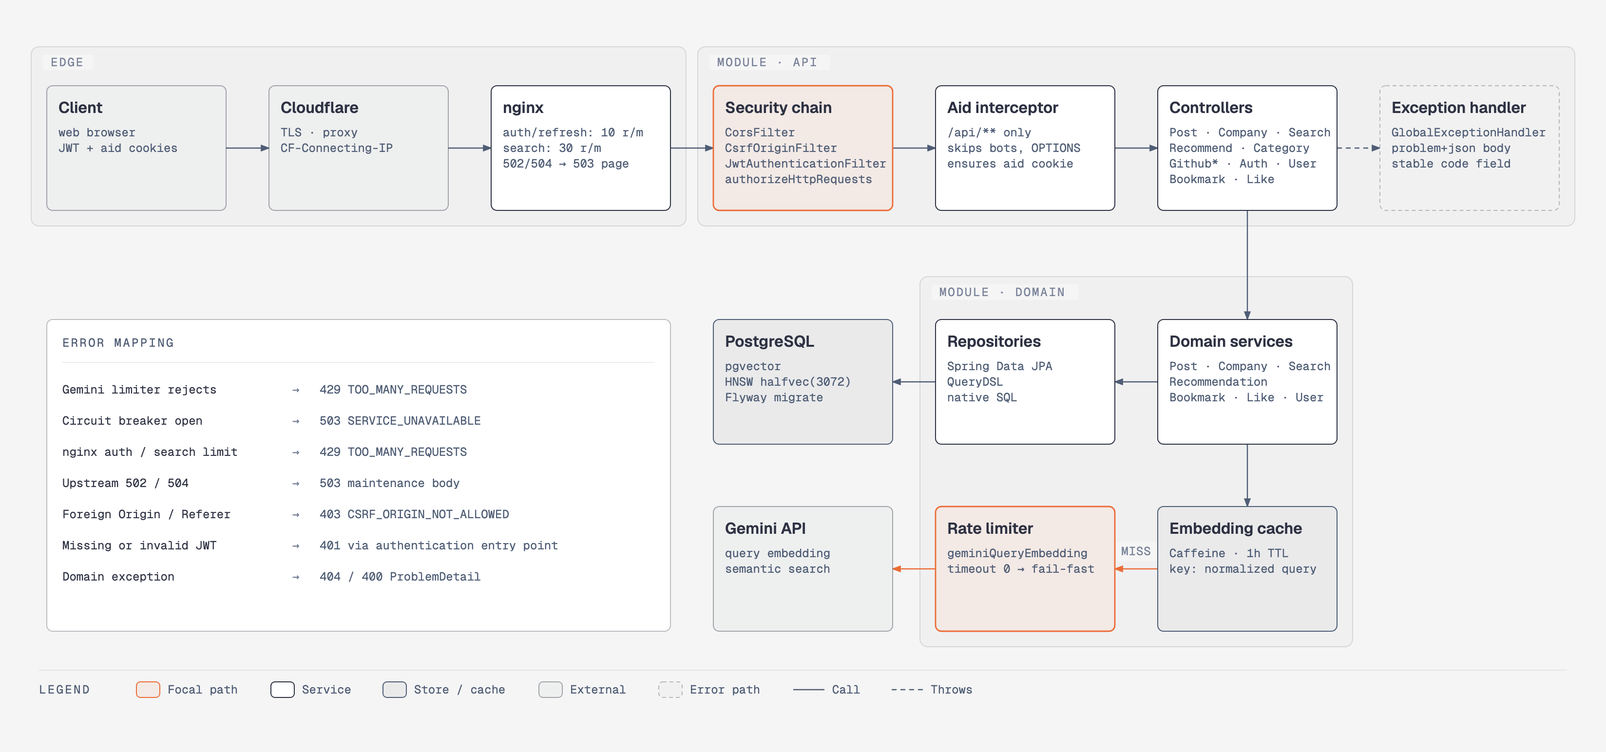
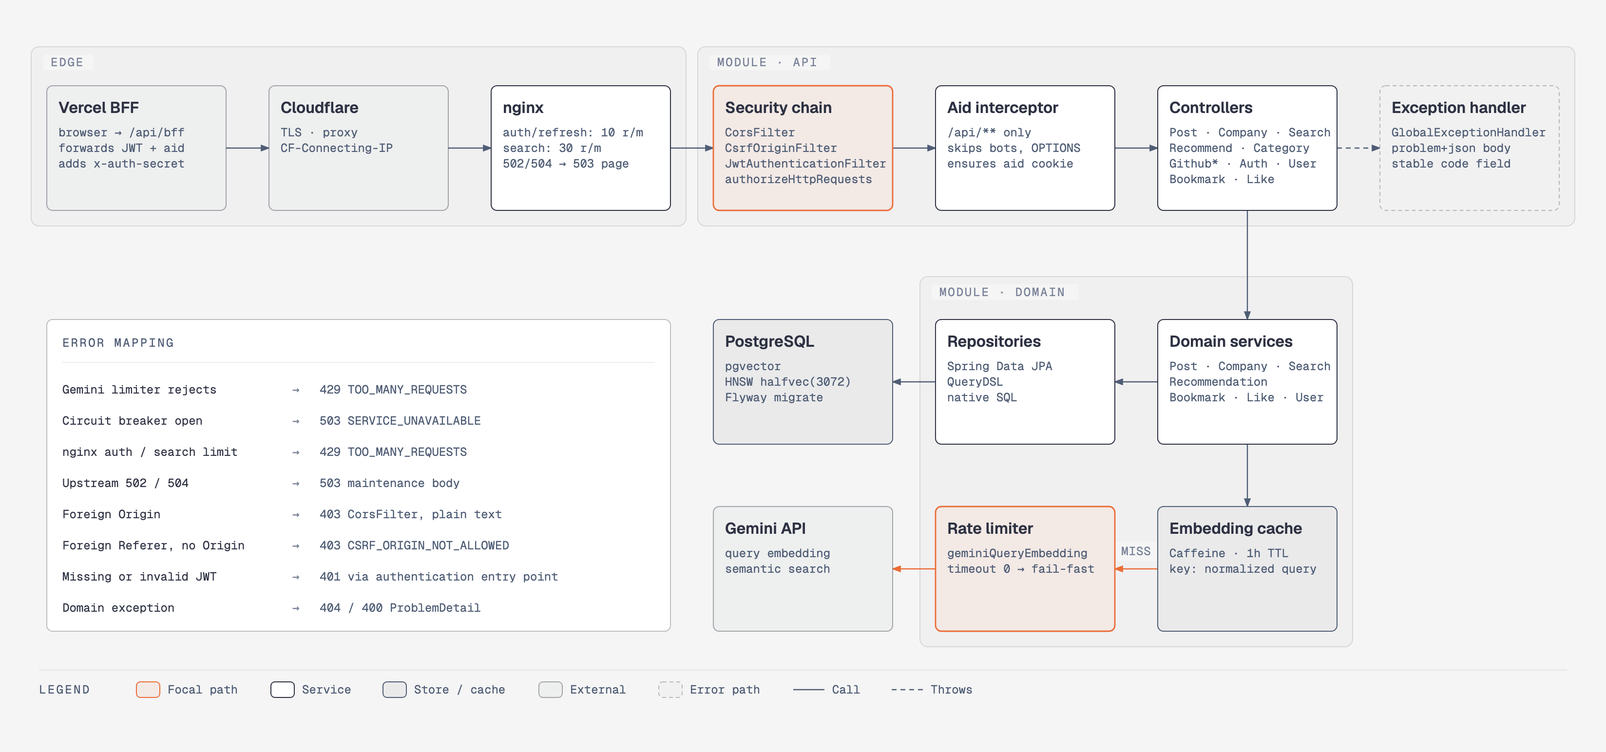
docs: correct api diagram csrf rows and vercel bff entry

diff --git a/img/diagrams/src/api-server.html b/img/diagrams/src/api-server.html
@@ -6,5 +6,5 @@
 .eyebrow{font-family:'Geist Mono', ui-monospace, monospace;font-size:.66rem;letter-spacing:.18em;text-transform:uppercase;color:#4f5d75;margin-bottom:.5rem}
 h1{font-family:'Instrument Serif', serif;font-weight:400;font-size:1.75rem;margin-bottom:1.5rem}svg{max-width:100%;height:auto;display:block}</style></head>
 <body><p class="eyebrow">Request flow</p><h1>API server</h1>
-<svg xmlns="http://www.w3.org/2000/svg" viewBox="0 0 1648 772" width="1648" height="772" role="img" aria-labelledby="api-server-title api-server-desc"><title id="api-server-title">TechInsights API server request flow</title><desc id="api-server-desc">Request path from the client through Cloudflare and nginx, the Spring Security chain, the Aid interceptor and controllers in the api module, into domain services, repositories and PostgreSQL with pgvector, plus the fail-fast Gemini query-embedding path and ProblemDetail error handling.</desc><defs><marker id="api-server-arrow" markerWidth="8" markerHeight="6" refX="7" refY="3" orient="auto"><polygon points="0 0, 8 3, 0 6" fill="#4f5d75"/></marker><marker id="api-server-arrow-accent" markerWidth="8" markerHeight="6" refX="7" refY="3" orient="auto"><polygon points="0 0, 8 3, 0 6" fill="#eb6c36"/></marker><marker id="api-server-arrow-link" markerWidth="8" markerHeight="6" refX="7" refY="3" orient="auto"><polygon points="0 0, 8 3, 0 6" fill="#2e5aa8"/></marker></defs><rect width="100%" height="100%" fill="#f5f5f5"/><rect x="32" y="48" width="672" height="184" rx="8" fill="rgba(45,49,66,0.025)" stroke="rgba(45,49,66,0.14)" stroke-width="1"/><rect x="44" y="56" width="52" height="16" rx="2" fill="#f5f5f5"/><text x="52" y="68" fill="#7a8399" font-size="12" font-family="'Geist Mono', ui-monospace, monospace" letter-spacing="0.12em">EDGE</text><rect x="716" y="48" width="900" height="184" rx="8" fill="rgba(45,49,66,0.025)" stroke="rgba(45,49,66,0.14)" stroke-width="1"/><rect x="728" y="56" width="124" height="16" rx="2" fill="#f5f5f5"/><text x="736" y="68" fill="#7a8399" font-size="12" font-family="'Geist Mono', ui-monospace, monospace" letter-spacing="0.12em">MODULE · API</text><rect x="944" y="284" width="444" height="380" rx="8" fill="rgba(45,49,66,0.025)" stroke="rgba(45,49,66,0.14)" stroke-width="1"/><rect x="956" y="292" width="151" height="16" rx="2" fill="#f5f5f5"/><text x="964" y="304" fill="#7a8399" font-size="12" font-family="'Geist Mono', ui-monospace, monospace" letter-spacing="0.12em">MODULE · DOMAIN</text><path d="M 232,152 L 276,152" fill="none" stroke="#4f5d75" stroke-width="1.2" marker-end="url(#api-server-arrow)"/><path d="M 460,152 L 504,152" fill="none" stroke="#4f5d75" stroke-width="1.2" marker-end="url(#api-server-arrow)"/><path d="M 688,152 L 732,152" fill="none" stroke="#4f5d75" stroke-width="1.2" marker-end="url(#api-server-arrow)"/><path d="M 916,152 L 960,152" fill="none" stroke="#4f5d75" stroke-width="1.2" marker-end="url(#api-server-arrow)"/><path d="M 1144,152 L 1188,152" fill="none" stroke="#4f5d75" stroke-width="1.2" marker-end="url(#api-server-arrow)"/><path d="M 1372,152 L 1416,152" fill="none" stroke="#4f5d75" stroke-width="1.2" stroke-dasharray="5,4" marker-end="url(#api-server-arrow)"/><path d="M 1280,216 L 1280,328" fill="none" stroke="#4f5d75" stroke-width="1.2" marker-end="url(#api-server-arrow)"/><path d="M 1188,392 L 1144,392" fill="none" stroke="#4f5d75" stroke-width="1.2" marker-end="url(#api-server-arrow)"/><path d="M 960,392 L 916,392" fill="none" stroke="#4f5d75" stroke-width="1.2" marker-end="url(#api-server-arrow)"/><path d="M 1280,456 L 1280,520" fill="none" stroke="#4f5d75" stroke-width="1.2" marker-end="url(#api-server-arrow)"/><path d="M 1188,584 L 1144,584" fill="none" stroke="#eb6c36" stroke-width="1.2" marker-end="url(#api-server-arrow-accent)"/><path d="M 960,584 L 916,584" fill="none" stroke="#eb6c36" stroke-width="1.2" marker-end="url(#api-server-arrow-accent)"/><rect x="1145" y="556" width="42" height="20" rx="2" fill="#f5f5f5"/><text x="1166" y="570" fill="#7a8399" font-size="12" font-family="'Geist Mono', ui-monospace, monospace" text-anchor="middle" letter-spacing="0.04em">MISS</text><rect x="48" y="88" width="184" height="128" rx="6" fill="#f5f5f5"/><rect x="48" y="88" width="184" height="128" rx="6" fill="rgba(45,49,66,0.03)" stroke="rgba(45,49,66,0.40)" stroke-width="1"/><text x="60" y="116" fill="#2d3142" font-size="16" font-weight="600" font-family="'Geist', 'Noto Sans KR', sans-serif">Client</text><text x="60" y="140" fill="#4f5d75" font-size="12" font-family="'Geist Mono', ui-monospace, monospace">web browser</text><text x="60" y="156" fill="#4f5d75" font-size="12" font-family="'Geist Mono', ui-monospace, monospace">JWT + aid cookies</text><rect x="276" y="88" width="184" height="128" rx="6" fill="#f5f5f5"/><rect x="276" y="88" width="184" height="128" rx="6" fill="rgba(45,49,66,0.03)" stroke="rgba(45,49,66,0.40)" stroke-width="1"/><text x="288" y="116" fill="#2d3142" font-size="16" font-weight="600" font-family="'Geist', 'Noto Sans KR', sans-serif">Cloudflare</text><text x="288" y="140" fill="#4f5d75" font-size="12" font-family="'Geist Mono', ui-monospace, monospace">TLS · proxy</text><text x="288" y="156" fill="#4f5d75" font-size="12" font-family="'Geist Mono', ui-monospace, monospace">CF-Connecting-IP</text><rect x="504" y="88" width="184" height="128" rx="6" fill="#f5f5f5"/><rect x="504" y="88" width="184" height="128" rx="6" fill="#ffffff" stroke="#2d3142" stroke-width="1"/><text x="516" y="116" fill="#2d3142" font-size="16" font-weight="600" font-family="'Geist', 'Noto Sans KR', sans-serif">nginx</text><text x="516" y="140" fill="#4f5d75" font-size="12" font-family="'Geist Mono', ui-monospace, monospace">auth/refresh: 10 r/m</text><text x="516" y="156" fill="#4f5d75" font-size="12" font-family="'Geist Mono', ui-monospace, monospace">search: 30 r/m</text><text x="516" y="172" fill="#4f5d75" font-size="12" font-family="'Geist Mono', ui-monospace, monospace">502/504 → 503 page</text><rect x="732" y="88" width="184" height="128" rx="6" fill="#f5f5f5"/><rect x="732" y="88" width="184" height="128" rx="6" fill="rgba(235,108,54,0.08)" stroke="#eb6c36" stroke-width="1.4"/><text x="744" y="116" fill="#2d3142" font-size="16" font-weight="600" font-family="'Geist', 'Noto Sans KR', sans-serif">Security chain</text><text x="744" y="140" fill="#4f5d75" font-size="12" font-family="'Geist Mono', ui-monospace, monospace">CorsFilter</text><text x="744" y="156" fill="#4f5d75" font-size="12" font-family="'Geist Mono', ui-monospace, monospace">CsrfOriginFilter</text><text x="744" y="172" fill="#4f5d75" font-size="12" font-family="'Geist Mono', ui-monospace, monospace">JwtAuthenticationFilter</text><text x="744" y="188" fill="#4f5d75" font-size="12" font-family="'Geist Mono', ui-monospace, monospace">authorizeHttpRequests</text><rect x="960" y="88" width="184" height="128" rx="6" fill="#f5f5f5"/><rect x="960" y="88" width="184" height="128" rx="6" fill="#ffffff" stroke="#2d3142" stroke-width="1"/><text x="972" y="116" fill="#2d3142" font-size="16" font-weight="600" font-family="'Geist', 'Noto Sans KR', sans-serif">Aid interceptor</text><text x="972" y="140" fill="#4f5d75" font-size="12" font-family="'Geist Mono', ui-monospace, monospace">/api/** only</text><text x="972" y="156" fill="#4f5d75" font-size="12" font-family="'Geist Mono', ui-monospace, monospace">skips bots, OPTIONS</text><text x="972" y="172" fill="#4f5d75" font-size="12" font-family="'Geist Mono', ui-monospace, monospace">ensures aid cookie</text><rect x="1188" y="88" width="184" height="128" rx="6" fill="#f5f5f5"/><rect x="1188" y="88" width="184" height="128" rx="6" fill="#ffffff" stroke="#2d3142" stroke-width="1"/><text x="1200" y="116" fill="#2d3142" font-size="16" font-weight="600" font-family="'Geist', 'Noto Sans KR', sans-serif">Controllers</text><text x="1200" y="140" fill="#4f5d75" font-size="12" font-family="'Geist Mono', ui-monospace, monospace">Post · Company · Search</text><text x="1200" y="156" fill="#4f5d75" font-size="12" font-family="'Geist Mono', ui-monospace, monospace">Recommend · Category</text><text x="1200" y="172" fill="#4f5d75" font-size="12" font-family="'Geist Mono', ui-monospace, monospace">Github* · Auth · User</text><text x="1200" y="188" fill="#4f5d75" font-size="12" font-family="'Geist Mono', ui-monospace, monospace">Bookmark · Like</text><rect x="1416" y="88" width="184" height="128" rx="6" fill="#f5f5f5"/><rect x="1416" y="88" width="184" height="128" rx="6" fill="rgba(45,49,66,0.02)" stroke="rgba(45,49,66,0.30)" stroke-width="1" stroke-dasharray="4,3"/><text x="1428" y="116" fill="#2d3142" font-size="16" font-weight="600" font-family="'Geist', 'Noto Sans KR', sans-serif">Exception handler</text><text x="1428" y="140" fill="#4f5d75" font-size="12" font-family="'Geist Mono', ui-monospace, monospace">GlobalExceptionHandler</text><text x="1428" y="156" fill="#4f5d75" font-size="12" font-family="'Geist Mono', ui-monospace, monospace">problem+json body</text><text x="1428" y="172" fill="#4f5d75" font-size="12" font-family="'Geist Mono', ui-monospace, monospace">stable code field</text><rect x="1188" y="328" width="184" height="128" rx="6" fill="#f5f5f5"/><rect x="1188" y="328" width="184" height="128" rx="6" fill="#ffffff" stroke="#2d3142" stroke-width="1"/><text x="1200" y="356" fill="#2d3142" font-size="16" font-weight="600" font-family="'Geist', 'Noto Sans KR', sans-serif">Domain services</text><text x="1200" y="380" fill="#4f5d75" font-size="12" font-family="'Geist Mono', ui-monospace, monospace">Post · Company · Search</text><text x="1200" y="396" fill="#4f5d75" font-size="12" font-family="'Geist Mono', ui-monospace, monospace">Recommendation</text><text x="1200" y="412" fill="#4f5d75" font-size="12" font-family="'Geist Mono', ui-monospace, monospace">Bookmark · Like · User</text><rect x="960" y="328" width="184" height="128" rx="6" fill="#f5f5f5"/><rect x="960" y="328" width="184" height="128" rx="6" fill="#ffffff" stroke="#2d3142" stroke-width="1"/><text x="972" y="356" fill="#2d3142" font-size="16" font-weight="600" font-family="'Geist', 'Noto Sans KR', sans-serif">Repositories</text><text x="972" y="380" fill="#4f5d75" font-size="12" font-family="'Geist Mono', ui-monospace, monospace">Spring Data JPA</text><text x="972" y="396" fill="#4f5d75" font-size="12" font-family="'Geist Mono', ui-monospace, monospace">QueryDSL</text><text x="972" y="412" fill="#4f5d75" font-size="12" font-family="'Geist Mono', ui-monospace, monospace">native SQL</text><rect x="732" y="328" width="184" height="128" rx="6" fill="#f5f5f5"/><rect x="732" y="328" width="184" height="128" rx="6" fill="rgba(45,49,66,0.05)" stroke="#4f5d75" stroke-width="1"/><text x="744" y="356" fill="#2d3142" font-size="16" font-weight="600" font-family="'Geist', 'Noto Sans KR', sans-serif">PostgreSQL</text><text x="744" y="380" fill="#4f5d75" font-size="12" font-family="'Geist Mono', ui-monospace, monospace">pgvector</text><text x="744" y="396" fill="#4f5d75" font-size="12" font-family="'Geist Mono', ui-monospace, monospace">HNSW halfvec(3072)</text><text x="744" y="412" fill="#4f5d75" font-size="12" font-family="'Geist Mono', ui-monospace, monospace">Flyway migrate</text><rect x="1188" y="520" width="184" height="128" rx="6" fill="#f5f5f5"/><rect x="1188" y="520" width="184" height="128" rx="6" fill="rgba(45,49,66,0.05)" stroke="#4f5d75" stroke-width="1"/><text x="1200" y="548" fill="#2d3142" font-size="16" font-weight="600" font-family="'Geist', 'Noto Sans KR', sans-serif">Embedding cache</text><text x="1200" y="572" fill="#4f5d75" font-size="12" font-family="'Geist Mono', ui-monospace, monospace">Caffeine · 1h TTL</text><text x="1200" y="588" fill="#4f5d75" font-size="12" font-family="'Geist Mono', ui-monospace, monospace">key: normalized query</text><rect x="960" y="520" width="184" height="128" rx="6" fill="#f5f5f5"/><rect x="960" y="520" width="184" height="128" rx="6" fill="rgba(235,108,54,0.08)" stroke="#eb6c36" stroke-width="1.4"/><text x="972" y="548" fill="#2d3142" font-size="16" font-weight="600" font-family="'Geist', 'Noto Sans KR', sans-serif">Rate limiter</text><text x="972" y="572" fill="#4f5d75" font-size="12" font-family="'Geist Mono', ui-monospace, monospace">geminiQueryEmbedding</text><text x="972" y="588" fill="#4f5d75" font-size="12" font-family="'Geist Mono', ui-monospace, monospace">timeout 0 → fail-fast</text><rect x="732" y="520" width="184" height="128" rx="6" fill="#f5f5f5"/><rect x="732" y="520" width="184" height="128" rx="6" fill="rgba(45,49,66,0.03)" stroke="rgba(45,49,66,0.40)" stroke-width="1"/><text x="744" y="548" fill="#2d3142" font-size="16" font-weight="600" font-family="'Geist', 'Noto Sans KR', sans-serif">Gemini API</text><text x="744" y="572" fill="#4f5d75" font-size="12" font-family="'Geist Mono', ui-monospace, monospace">query embedding</text><text x="744" y="588" fill="#4f5d75" font-size="12" font-family="'Geist Mono', ui-monospace, monospace">semantic search</text><rect x="48" y="328" width="640" height="320" rx="6" fill="#ffffff" stroke="rgba(45,49,66,0.30)" stroke-width="1"/><text x="64" y="356" fill="#4f5d75" font-size="12" font-weight="400" font-family="'Geist Mono', ui-monospace, monospace" text-anchor="start" letter-spacing="0.14em">ERROR MAPPING</text><line x1="64" y1="372" x2="672" y2="372" stroke="rgba(45,49,66,0.12)" stroke-width="0.8"/><text x="64" y="404" fill="#2d3142" font-size="12" font-weight="400" font-family="'Geist Mono', ui-monospace, monospace" text-anchor="start">Gemini limiter rejects</text><text x="300" y="404" fill="#7a8399" font-size="12" font-weight="400" font-family="'Geist Mono', ui-monospace, monospace" text-anchor="start">→</text><text x="328" y="404" fill="#4f5d75" font-size="12" font-weight="400" font-family="'Geist Mono', ui-monospace, monospace" text-anchor="start">429 TOO_MANY_REQUESTS</text><text x="64" y="436" fill="#2d3142" font-size="12" font-weight="400" font-family="'Geist Mono', ui-monospace, monospace" text-anchor="start">Circuit breaker open</text><text x="300" y="436" fill="#7a8399" font-size="12" font-weight="400" font-family="'Geist Mono', ui-monospace, monospace" text-anchor="start">→</text><text x="328" y="436" fill="#4f5d75" font-size="12" font-weight="400" font-family="'Geist Mono', ui-monospace, monospace" text-anchor="start">503 SERVICE_UNAVAILABLE</text><text x="64" y="468" fill="#2d3142" font-size="12" font-weight="400" font-family="'Geist Mono', ui-monospace, monospace" text-anchor="start">nginx auth / search limit</text><text x="300" y="468" fill="#7a8399" font-size="12" font-weight="400" font-family="'Geist Mono', ui-monospace, monospace" text-anchor="start">→</text><text x="328" y="468" fill="#4f5d75" font-size="12" font-weight="400" font-family="'Geist Mono', ui-monospace, monospace" text-anchor="start">429 TOO_MANY_REQUESTS</text><text x="64" y="500" fill="#2d3142" font-size="12" font-weight="400" font-family="'Geist Mono', ui-monospace, monospace" text-anchor="start">Upstream 502 / 504</text><text x="300" y="500" fill="#7a8399" font-size="12" font-weight="400" font-family="'Geist Mono', ui-monospace, monospace" text-anchor="start">→</text><text x="328" y="500" fill="#4f5d75" font-size="12" font-weight="400" font-family="'Geist Mono', ui-monospace, monospace" text-anchor="start">503 maintenance body</text><text x="64" y="532" fill="#2d3142" font-size="12" font-weight="400" font-family="'Geist Mono', ui-monospace, monospace" text-anchor="start">Foreign Origin / Referer</text><text x="300" y="532" fill="#7a8399" font-size="12" font-weight="400" font-family="'Geist Mono', ui-monospace, monospace" text-anchor="start">→</text><text x="328" y="532" fill="#4f5d75" font-size="12" font-weight="400" font-family="'Geist Mono', ui-monospace, monospace" text-anchor="start">403 CSRF_ORIGIN_NOT_ALLOWED</text><text x="64" y="564" fill="#2d3142" font-size="12" font-weight="400" font-family="'Geist Mono', ui-monospace, monospace" text-anchor="start">Missing or invalid JWT</text><text x="300" y="564" fill="#7a8399" font-size="12" font-weight="400" font-family="'Geist Mono', ui-monospace, monospace" text-anchor="start">→</text><text x="328" y="564" fill="#4f5d75" font-size="12" font-weight="400" font-family="'Geist Mono', ui-monospace, monospace" text-anchor="start">401 via authentication entry point</text><text x="64" y="596" fill="#2d3142" font-size="12" font-weight="400" font-family="'Geist Mono', ui-monospace, monospace" text-anchor="start">Domain exception</text><text x="300" y="596" fill="#7a8399" font-size="12" font-weight="400" font-family="'Geist Mono', ui-monospace, monospace" text-anchor="start">→</text><text x="328" y="596" fill="#4f5d75" font-size="12" font-weight="400" font-family="'Geist Mono', ui-monospace, monospace" text-anchor="start">404 / 400 ProblemDetail</text><line x1="40" y1="688" x2="1608" y2="688" stroke="rgba(45,49,66,0.10)" stroke-width="0.8"/><text x="40" y="712" fill="#4f5d75" font-size="12" font-weight="400" font-family="'Geist Mono', ui-monospace, monospace" text-anchor="start" letter-spacing="0.14em">LEGEND</text><rect x="140" y="700" width="24" height="16" rx="4" fill="rgba(235,108,54,0.08)" stroke="#eb6c36" stroke-width="1"/><text x="172" y="712" fill="#4f5d75" font-size="12" font-weight="400" font-family="'Geist Mono', ui-monospace, monospace" text-anchor="start">Focal path</text><rect x="278" y="700" width="24" height="16" rx="4" fill="#ffffff" stroke="#2d3142" stroke-width="1"/><text x="310" y="712" fill="#4f5d75" font-size="12" font-weight="400" font-family="'Geist Mono', ui-monospace, monospace" text-anchor="start">Service</text><rect x="393" y="700" width="24" height="16" rx="4" fill="rgba(45,49,66,0.05)" stroke="#4f5d75" stroke-width="1"/><text x="425" y="712" fill="#4f5d75" font-size="12" font-weight="400" font-family="'Geist Mono', ui-monospace, monospace" text-anchor="start">Store / cache</text><rect x="553" y="700" width="24" height="16" rx="4" fill="rgba(45,49,66,0.03)" stroke="rgba(45,49,66,0.40)" stroke-width="1"/><text x="585" y="712" fill="#4f5d75" font-size="12" font-weight="400" font-family="'Geist Mono', ui-monospace, monospace" text-anchor="start">External</text><rect x="676" y="700" width="24" height="16" rx="4" fill="rgba(45,49,66,0.02)" stroke="rgba(45,49,66,0.30)" stroke-width="1" stroke-dasharray="4,3"/><text x="708" y="712" fill="#4f5d75" font-size="12" font-weight="400" font-family="'Geist Mono', ui-monospace, monospace" text-anchor="start">Error path</text><line x1="814" y1="708" x2="846" y2="708" stroke="#4f5d75" stroke-width="1.2"/><text x="854" y="712" fill="#4f5d75" font-size="12" font-weight="400" font-family="'Geist Mono', ui-monospace, monospace" text-anchor="start">Call</text><line x1="915" y1="708" x2="947" y2="708" stroke="#4f5d75" stroke-width="1.2" stroke-dasharray="5,4"/><text x="955" y="712" fill="#4f5d75" font-size="12" font-weight="400" font-family="'Geist Mono', ui-monospace, monospace" text-anchor="start">Throws</text></svg>
+<svg xmlns="http://www.w3.org/2000/svg" viewBox="0 0 1648 772" width="1648" height="772" role="img" aria-labelledby="api-server-title api-server-desc"><title id="api-server-title">TechInsights API server request flow</title><desc id="api-server-desc">Request path from the client through Cloudflare and nginx, the Spring Security chain, the Aid interceptor and controllers in the api module, into domain services, repositories and PostgreSQL with pgvector, plus the fail-fast Gemini query-embedding path and ProblemDetail error handling.</desc><defs><marker id="api-server-arrow" markerWidth="8" markerHeight="6" refX="7" refY="3" orient="auto"><polygon points="0 0, 8 3, 0 6" fill="#4f5d75"/></marker><marker id="api-server-arrow-accent" markerWidth="8" markerHeight="6" refX="7" refY="3" orient="auto"><polygon points="0 0, 8 3, 0 6" fill="#eb6c36"/></marker><marker id="api-server-arrow-link" markerWidth="8" markerHeight="6" refX="7" refY="3" orient="auto"><polygon points="0 0, 8 3, 0 6" fill="#2e5aa8"/></marker></defs><rect width="100%" height="100%" fill="#f5f5f5"/><rect x="32" y="48" width="672" height="184" rx="8" fill="rgba(45,49,66,0.025)" stroke="rgba(45,49,66,0.14)" stroke-width="1"/><rect x="44" y="56" width="52" height="16" rx="2" fill="#f5f5f5"/><text x="52" y="68" fill="#7a8399" font-size="12" font-family="'Geist Mono', ui-monospace, monospace" letter-spacing="0.12em">EDGE</text><rect x="716" y="48" width="900" height="184" rx="8" fill="rgba(45,49,66,0.025)" stroke="rgba(45,49,66,0.14)" stroke-width="1"/><rect x="728" y="56" width="124" height="16" rx="2" fill="#f5f5f5"/><text x="736" y="68" fill="#7a8399" font-size="12" font-family="'Geist Mono', ui-monospace, monospace" letter-spacing="0.12em">MODULE · API</text><rect x="944" y="284" width="444" height="380" rx="8" fill="rgba(45,49,66,0.025)" stroke="rgba(45,49,66,0.14)" stroke-width="1"/><rect x="956" y="292" width="151" height="16" rx="2" fill="#f5f5f5"/><text x="964" y="304" fill="#7a8399" font-size="12" font-family="'Geist Mono', ui-monospace, monospace" letter-spacing="0.12em">MODULE · DOMAIN</text><path d="M 232,152 L 276,152" fill="none" stroke="#4f5d75" stroke-width="1.2" marker-end="url(#api-server-arrow)"/><path d="M 460,152 L 504,152" fill="none" stroke="#4f5d75" stroke-width="1.2" marker-end="url(#api-server-arrow)"/><path d="M 688,152 L 732,152" fill="none" stroke="#4f5d75" stroke-width="1.2" marker-end="url(#api-server-arrow)"/><path d="M 916,152 L 960,152" fill="none" stroke="#4f5d75" stroke-width="1.2" marker-end="url(#api-server-arrow)"/><path d="M 1144,152 L 1188,152" fill="none" stroke="#4f5d75" stroke-width="1.2" marker-end="url(#api-server-arrow)"/><path d="M 1372,152 L 1416,152" fill="none" stroke="#4f5d75" stroke-width="1.2" stroke-dasharray="5,4" marker-end="url(#api-server-arrow)"/><path d="M 1280,216 L 1280,328" fill="none" stroke="#4f5d75" stroke-width="1.2" marker-end="url(#api-server-arrow)"/><path d="M 1188,392 L 1144,392" fill="none" stroke="#4f5d75" stroke-width="1.2" marker-end="url(#api-server-arrow)"/><path d="M 960,392 L 916,392" fill="none" stroke="#4f5d75" stroke-width="1.2" marker-end="url(#api-server-arrow)"/><path d="M 1280,456 L 1280,520" fill="none" stroke="#4f5d75" stroke-width="1.2" marker-end="url(#api-server-arrow)"/><path d="M 1188,584 L 1144,584" fill="none" stroke="#eb6c36" stroke-width="1.2" marker-end="url(#api-server-arrow-accent)"/><path d="M 960,584 L 916,584" fill="none" stroke="#eb6c36" stroke-width="1.2" marker-end="url(#api-server-arrow-accent)"/><rect x="1145" y="556" width="42" height="20" rx="2" fill="#f5f5f5"/><text x="1166" y="570" fill="#7a8399" font-size="12" font-family="'Geist Mono', ui-monospace, monospace" text-anchor="middle" letter-spacing="0.04em">MISS</text><rect x="48" y="88" width="184" height="128" rx="6" fill="#f5f5f5"/><rect x="48" y="88" width="184" height="128" rx="6" fill="rgba(45,49,66,0.03)" stroke="rgba(45,49,66,0.40)" stroke-width="1"/><text x="60" y="116" fill="#2d3142" font-size="16" font-weight="600" font-family="'Geist', 'Noto Sans KR', sans-serif">Vercel BFF</text><text x="60" y="140" fill="#4f5d75" font-size="12" font-family="'Geist Mono', ui-monospace, monospace">browser → /api/bff</text><text x="60" y="156" fill="#4f5d75" font-size="12" font-family="'Geist Mono', ui-monospace, monospace">forwards JWT + aid</text><text x="60" y="172" fill="#4f5d75" font-size="12" font-family="'Geist Mono', ui-monospace, monospace">adds x-auth-secret</text><rect x="276" y="88" width="184" height="128" rx="6" fill="#f5f5f5"/><rect x="276" y="88" width="184" height="128" rx="6" fill="rgba(45,49,66,0.03)" stroke="rgba(45,49,66,0.40)" stroke-width="1"/><text x="288" y="116" fill="#2d3142" font-size="16" font-weight="600" font-family="'Geist', 'Noto Sans KR', sans-serif">Cloudflare</text><text x="288" y="140" fill="#4f5d75" font-size="12" font-family="'Geist Mono', ui-monospace, monospace">TLS · proxy</text><text x="288" y="156" fill="#4f5d75" font-size="12" font-family="'Geist Mono', ui-monospace, monospace">CF-Connecting-IP</text><rect x="504" y="88" width="184" height="128" rx="6" fill="#f5f5f5"/><rect x="504" y="88" width="184" height="128" rx="6" fill="#ffffff" stroke="#2d3142" stroke-width="1"/><text x="516" y="116" fill="#2d3142" font-size="16" font-weight="600" font-family="'Geist', 'Noto Sans KR', sans-serif">nginx</text><text x="516" y="140" fill="#4f5d75" font-size="12" font-family="'Geist Mono', ui-monospace, monospace">auth/refresh: 10 r/m</text><text x="516" y="156" fill="#4f5d75" font-size="12" font-family="'Geist Mono', ui-monospace, monospace">search: 30 r/m</text><text x="516" y="172" fill="#4f5d75" font-size="12" font-family="'Geist Mono', ui-monospace, monospace">502/504 → 503 page</text><rect x="732" y="88" width="184" height="128" rx="6" fill="#f5f5f5"/><rect x="732" y="88" width="184" height="128" rx="6" fill="rgba(235,108,54,0.08)" stroke="#eb6c36" stroke-width="1.4"/><text x="744" y="116" fill="#2d3142" font-size="16" font-weight="600" font-family="'Geist', 'Noto Sans KR', sans-serif">Security chain</text><text x="744" y="140" fill="#4f5d75" font-size="12" font-family="'Geist Mono', ui-monospace, monospace">CorsFilter</text><text x="744" y="156" fill="#4f5d75" font-size="12" font-family="'Geist Mono', ui-monospace, monospace">CsrfOriginFilter</text><text x="744" y="172" fill="#4f5d75" font-size="12" font-family="'Geist Mono', ui-monospace, monospace">JwtAuthenticationFilter</text><text x="744" y="188" fill="#4f5d75" font-size="12" font-family="'Geist Mono', ui-monospace, monospace">authorizeHttpRequests</text><rect x="960" y="88" width="184" height="128" rx="6" fill="#f5f5f5"/><rect x="960" y="88" width="184" height="128" rx="6" fill="#ffffff" stroke="#2d3142" stroke-width="1"/><text x="972" y="116" fill="#2d3142" font-size="16" font-weight="600" font-family="'Geist', 'Noto Sans KR', sans-serif">Aid interceptor</text><text x="972" y="140" fill="#4f5d75" font-size="12" font-family="'Geist Mono', ui-monospace, monospace">/api/** only</text><text x="972" y="156" fill="#4f5d75" font-size="12" font-family="'Geist Mono', ui-monospace, monospace">skips bots, OPTIONS</text><text x="972" y="172" fill="#4f5d75" font-size="12" font-family="'Geist Mono', ui-monospace, monospace">ensures aid cookie</text><rect x="1188" y="88" width="184" height="128" rx="6" fill="#f5f5f5"/><rect x="1188" y="88" width="184" height="128" rx="6" fill="#ffffff" stroke="#2d3142" stroke-width="1"/><text x="1200" y="116" fill="#2d3142" font-size="16" font-weight="600" font-family="'Geist', 'Noto Sans KR', sans-serif">Controllers</text><text x="1200" y="140" fill="#4f5d75" font-size="12" font-family="'Geist Mono', ui-monospace, monospace">Post · Company · Search</text><text x="1200" y="156" fill="#4f5d75" font-size="12" font-family="'Geist Mono', ui-monospace, monospace">Recommend · Category</text><text x="1200" y="172" fill="#4f5d75" font-size="12" font-family="'Geist Mono', ui-monospace, monospace">Github* · Auth · User</text><text x="1200" y="188" fill="#4f5d75" font-size="12" font-family="'Geist Mono', ui-monospace, monospace">Bookmark · Like</text><rect x="1416" y="88" width="184" height="128" rx="6" fill="#f5f5f5"/><rect x="1416" y="88" width="184" height="128" rx="6" fill="rgba(45,49,66,0.02)" stroke="rgba(45,49,66,0.30)" stroke-width="1" stroke-dasharray="4,3"/><text x="1428" y="116" fill="#2d3142" font-size="16" font-weight="600" font-family="'Geist', 'Noto Sans KR', sans-serif">Exception handler</text><text x="1428" y="140" fill="#4f5d75" font-size="12" font-family="'Geist Mono', ui-monospace, monospace">GlobalExceptionHandler</text><text x="1428" y="156" fill="#4f5d75" font-size="12" font-family="'Geist Mono', ui-monospace, monospace">problem+json body</text><text x="1428" y="172" fill="#4f5d75" font-size="12" font-family="'Geist Mono', ui-monospace, monospace">stable code field</text><rect x="1188" y="328" width="184" height="128" rx="6" fill="#f5f5f5"/><rect x="1188" y="328" width="184" height="128" rx="6" fill="#ffffff" stroke="#2d3142" stroke-width="1"/><text x="1200" y="356" fill="#2d3142" font-size="16" font-weight="600" font-family="'Geist', 'Noto Sans KR', sans-serif">Domain services</text><text x="1200" y="380" fill="#4f5d75" font-size="12" font-family="'Geist Mono', ui-monospace, monospace">Post · Company · Search</text><text x="1200" y="396" fill="#4f5d75" font-size="12" font-family="'Geist Mono', ui-monospace, monospace">Recommendation</text><text x="1200" y="412" fill="#4f5d75" font-size="12" font-family="'Geist Mono', ui-monospace, monospace">Bookmark · Like · User</text><rect x="960" y="328" width="184" height="128" rx="6" fill="#f5f5f5"/><rect x="960" y="328" width="184" height="128" rx="6" fill="#ffffff" stroke="#2d3142" stroke-width="1"/><text x="972" y="356" fill="#2d3142" font-size="16" font-weight="600" font-family="'Geist', 'Noto Sans KR', sans-serif">Repositories</text><text x="972" y="380" fill="#4f5d75" font-size="12" font-family="'Geist Mono', ui-monospace, monospace">Spring Data JPA</text><text x="972" y="396" fill="#4f5d75" font-size="12" font-family="'Geist Mono', ui-monospace, monospace">QueryDSL</text><text x="972" y="412" fill="#4f5d75" font-size="12" font-family="'Geist Mono', ui-monospace, monospace">native SQL</text><rect x="732" y="328" width="184" height="128" rx="6" fill="#f5f5f5"/><rect x="732" y="328" width="184" height="128" rx="6" fill="rgba(45,49,66,0.05)" stroke="#4f5d75" stroke-width="1"/><text x="744" y="356" fill="#2d3142" font-size="16" font-weight="600" font-family="'Geist', 'Noto Sans KR', sans-serif">PostgreSQL</text><text x="744" y="380" fill="#4f5d75" font-size="12" font-family="'Geist Mono', ui-monospace, monospace">pgvector</text><text x="744" y="396" fill="#4f5d75" font-size="12" font-family="'Geist Mono', ui-monospace, monospace">HNSW halfvec(3072)</text><text x="744" y="412" fill="#4f5d75" font-size="12" font-family="'Geist Mono', ui-monospace, monospace">Flyway migrate</text><rect x="1188" y="520" width="184" height="128" rx="6" fill="#f5f5f5"/><rect x="1188" y="520" width="184" height="128" rx="6" fill="rgba(45,49,66,0.05)" stroke="#4f5d75" stroke-width="1"/><text x="1200" y="548" fill="#2d3142" font-size="16" font-weight="600" font-family="'Geist', 'Noto Sans KR', sans-serif">Embedding cache</text><text x="1200" y="572" fill="#4f5d75" font-size="12" font-family="'Geist Mono', ui-monospace, monospace">Caffeine · 1h TTL</text><text x="1200" y="588" fill="#4f5d75" font-size="12" font-family="'Geist Mono', ui-monospace, monospace">key: normalized query</text><rect x="960" y="520" width="184" height="128" rx="6" fill="#f5f5f5"/><rect x="960" y="520" width="184" height="128" rx="6" fill="rgba(235,108,54,0.08)" stroke="#eb6c36" stroke-width="1.4"/><text x="972" y="548" fill="#2d3142" font-size="16" font-weight="600" font-family="'Geist', 'Noto Sans KR', sans-serif">Rate limiter</text><text x="972" y="572" fill="#4f5d75" font-size="12" font-family="'Geist Mono', ui-monospace, monospace">geminiQueryEmbedding</text><text x="972" y="588" fill="#4f5d75" font-size="12" font-family="'Geist Mono', ui-monospace, monospace">timeout 0 → fail-fast</text><rect x="732" y="520" width="184" height="128" rx="6" fill="#f5f5f5"/><rect x="732" y="520" width="184" height="128" rx="6" fill="rgba(45,49,66,0.03)" stroke="rgba(45,49,66,0.40)" stroke-width="1"/><text x="744" y="548" fill="#2d3142" font-size="16" font-weight="600" font-family="'Geist', 'Noto Sans KR', sans-serif">Gemini API</text><text x="744" y="572" fill="#4f5d75" font-size="12" font-family="'Geist Mono', ui-monospace, monospace">query embedding</text><text x="744" y="588" fill="#4f5d75" font-size="12" font-family="'Geist Mono', ui-monospace, monospace">semantic search</text><rect x="48" y="328" width="640" height="320" rx="6" fill="#ffffff" stroke="rgba(45,49,66,0.30)" stroke-width="1"/><text x="64" y="356" fill="#4f5d75" font-size="12" font-weight="400" font-family="'Geist Mono', ui-monospace, monospace" text-anchor="start" letter-spacing="0.14em">ERROR MAPPING</text><line x1="64" y1="372" x2="672" y2="372" stroke="rgba(45,49,66,0.12)" stroke-width="0.8"/><text x="64" y="404" fill="#2d3142" font-size="12" font-weight="400" font-family="'Geist Mono', ui-monospace, monospace" text-anchor="start">Gemini limiter rejects</text><text x="300" y="404" fill="#7a8399" font-size="12" font-weight="400" font-family="'Geist Mono', ui-monospace, monospace" text-anchor="start">→</text><text x="328" y="404" fill="#4f5d75" font-size="12" font-weight="400" font-family="'Geist Mono', ui-monospace, monospace" text-anchor="start">429 TOO_MANY_REQUESTS</text><text x="64" y="436" fill="#2d3142" font-size="12" font-weight="400" font-family="'Geist Mono', ui-monospace, monospace" text-anchor="start">Circuit breaker open</text><text x="300" y="436" fill="#7a8399" font-size="12" font-weight="400" font-family="'Geist Mono', ui-monospace, monospace" text-anchor="start">→</text><text x="328" y="436" fill="#4f5d75" font-size="12" font-weight="400" font-family="'Geist Mono', ui-monospace, monospace" text-anchor="start">503 SERVICE_UNAVAILABLE</text><text x="64" y="468" fill="#2d3142" font-size="12" font-weight="400" font-family="'Geist Mono', ui-monospace, monospace" text-anchor="start">nginx auth / search limit</text><text x="300" y="468" fill="#7a8399" font-size="12" font-weight="400" font-family="'Geist Mono', ui-monospace, monospace" text-anchor="start">→</text><text x="328" y="468" fill="#4f5d75" font-size="12" font-weight="400" font-family="'Geist Mono', ui-monospace, monospace" text-anchor="start">429 TOO_MANY_REQUESTS</text><text x="64" y="500" fill="#2d3142" font-size="12" font-weight="400" font-family="'Geist Mono', ui-monospace, monospace" text-anchor="start">Upstream 502 / 504</text><text x="300" y="500" fill="#7a8399" font-size="12" font-weight="400" font-family="'Geist Mono', ui-monospace, monospace" text-anchor="start">→</text><text x="328" y="500" fill="#4f5d75" font-size="12" font-weight="400" font-family="'Geist Mono', ui-monospace, monospace" text-anchor="start">503 maintenance body</text><text x="64" y="532" fill="#2d3142" font-size="12" font-weight="400" font-family="'Geist Mono', ui-monospace, monospace" text-anchor="start">Foreign Origin</text><text x="300" y="532" fill="#7a8399" font-size="12" font-weight="400" font-family="'Geist Mono', ui-monospace, monospace" text-anchor="start">→</text><text x="328" y="532" fill="#4f5d75" font-size="12" font-weight="400" font-family="'Geist Mono', ui-monospace, monospace" text-anchor="start">403 CorsFilter, plain text</text><text x="64" y="564" fill="#2d3142" font-size="12" font-weight="400" font-family="'Geist Mono', ui-monospace, monospace" text-anchor="start">Foreign Referer, no Origin</text><text x="300" y="564" fill="#7a8399" font-size="12" font-weight="400" font-family="'Geist Mono', ui-monospace, monospace" text-anchor="start">→</text><text x="328" y="564" fill="#4f5d75" font-size="12" font-weight="400" font-family="'Geist Mono', ui-monospace, monospace" text-anchor="start">403 CSRF_ORIGIN_NOT_ALLOWED</text><text x="64" y="596" fill="#2d3142" font-size="12" font-weight="400" font-family="'Geist Mono', ui-monospace, monospace" text-anchor="start">Missing or invalid JWT</text><text x="300" y="596" fill="#7a8399" font-size="12" font-weight="400" font-family="'Geist Mono', ui-monospace, monospace" text-anchor="start">→</text><text x="328" y="596" fill="#4f5d75" font-size="12" font-weight="400" font-family="'Geist Mono', ui-monospace, monospace" text-anchor="start">401 via authentication entry point</text><text x="64" y="628" fill="#2d3142" font-size="12" font-weight="400" font-family="'Geist Mono', ui-monospace, monospace" text-anchor="start">Domain exception</text><text x="300" y="628" fill="#7a8399" font-size="12" font-weight="400" font-family="'Geist Mono', ui-monospace, monospace" text-anchor="start">→</text><text x="328" y="628" fill="#4f5d75" font-size="12" font-weight="400" font-family="'Geist Mono', ui-monospace, monospace" text-anchor="start">404 / 400 ProblemDetail</text><line x1="40" y1="688" x2="1608" y2="688" stroke="rgba(45,49,66,0.10)" stroke-width="0.8"/><text x="40" y="712" fill="#4f5d75" font-size="12" font-weight="400" font-family="'Geist Mono', ui-monospace, monospace" text-anchor="start" letter-spacing="0.14em">LEGEND</text><rect x="140" y="700" width="24" height="16" rx="4" fill="rgba(235,108,54,0.08)" stroke="#eb6c36" stroke-width="1"/><text x="172" y="712" fill="#4f5d75" font-size="12" font-weight="400" font-family="'Geist Mono', ui-monospace, monospace" text-anchor="start">Focal path</text><rect x="278" y="700" width="24" height="16" rx="4" fill="#ffffff" stroke="#2d3142" stroke-width="1"/><text x="310" y="712" fill="#4f5d75" font-size="12" font-weight="400" font-family="'Geist Mono', ui-monospace, monospace" text-anchor="start">Service</text><rect x="393" y="700" width="24" height="16" rx="4" fill="rgba(45,49,66,0.05)" stroke="#4f5d75" stroke-width="1"/><text x="425" y="712" fill="#4f5d75" font-size="12" font-weight="400" font-family="'Geist Mono', ui-monospace, monospace" text-anchor="start">Store / cache</text><rect x="553" y="700" width="24" height="16" rx="4" fill="rgba(45,49,66,0.03)" stroke="rgba(45,49,66,0.40)" stroke-width="1"/><text x="585" y="712" fill="#4f5d75" font-size="12" font-weight="400" font-family="'Geist Mono', ui-monospace, monospace" text-anchor="start">External</text><rect x="676" y="700" width="24" height="16" rx="4" fill="rgba(45,49,66,0.02)" stroke="rgba(45,49,66,0.30)" stroke-width="1" stroke-dasharray="4,3"/><text x="708" y="712" fill="#4f5d75" font-size="12" font-weight="400" font-family="'Geist Mono', ui-monospace, monospace" text-anchor="start">Error path</text><line x1="814" y1="708" x2="846" y2="708" stroke="#4f5d75" stroke-width="1.2"/><text x="854" y="712" fill="#4f5d75" font-size="12" font-weight="400" font-family="'Geist Mono', ui-monospace, monospace" text-anchor="start">Call</text><line x1="915" y1="708" x2="947" y2="708" stroke="#4f5d75" stroke-width="1.2" stroke-dasharray="5,4"/><text x="955" y="712" fill="#4f5d75" font-size="12" font-weight="400" font-family="'Geist Mono', ui-monospace, monospace" text-anchor="start">Throws</text></svg>
 </body></html>

diff --git a/img/diagrams/src/api.py b/img/diagrams/src/api.py
@@ -28,7 +28,7 @@ s.arrow([(cx(5), mid(C)), (cx(4) + NW, mid(C))], color="accent")
 s.label(cx(6) - 22, mid(C) - 18, "MISS")
 
 N = s.node
-N(cx(1), A, NW, NH, "Client", ["web browser", "JWT + aid cookies"], "ext")
+N(cx(1), A, NW, NH, "Vercel BFF", ["browser → /api/bff", "forwards JWT + aid", "adds x-auth-secret"], "ext")
 N(cx(2), A, NW, NH, "Cloudflare", ["TLS · proxy", "CF-Connecting-IP"], "ext")
 N(cx(3), A, NW, NH, "nginx", ["auth/refresh: 10 r/m", "search: 30 r/m", "502/504 → 503 page"], "step")
 N(cx(4), A, NW, NH, "Security chain", ["CorsFilter", "CsrfOriginFilter", "JwtAuthenticationFilter", "authorizeHttpRequests"], "focal")
@@ -50,7 +50,8 @@ rows = [("Gemini limiter rejects", "429 TOO_MANY_REQUESTS"),
         ("Circuit breaker open", "503 SERVICE_UNAVAILABLE"),
         ("nginx auth / search limit", "429 TOO_MANY_REQUESTS"),
         ("Upstream 502 / 504", "503 maintenance body"),
-        ("Foreign Origin / Referer", "403 CSRF_ORIGIN_NOT_ALLOWED"),
+        ("Foreign Origin", "403 CorsFilter, plain text"),
+        ("Foreign Referer, no Origin", "403 CSRF_ORIGIN_NOT_ALLOWED"),
         ("Missing or invalid JWT", "401 via authentication entry point"),
         ("Domain exception", "404 / 400 ProblemDetail")]
 for i, (a, b) in enumerate(rows):
